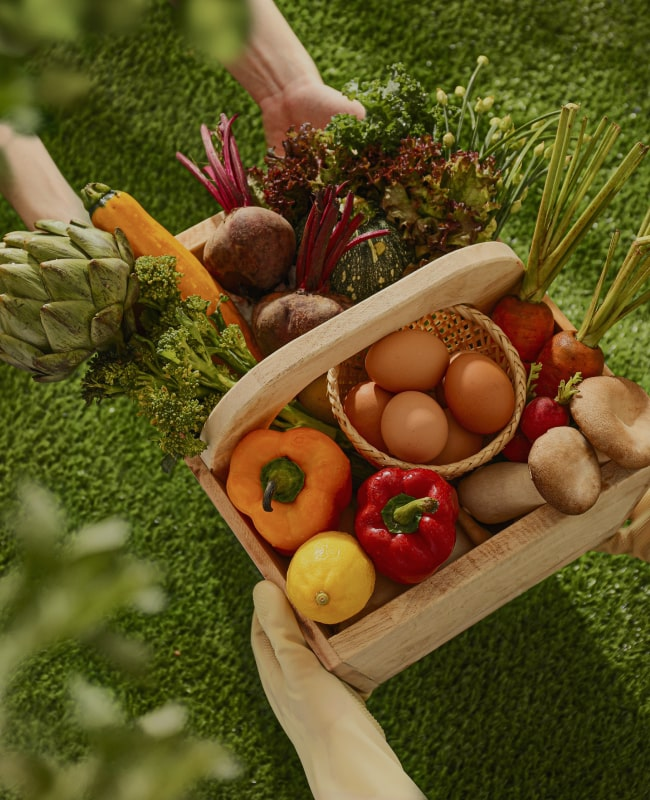
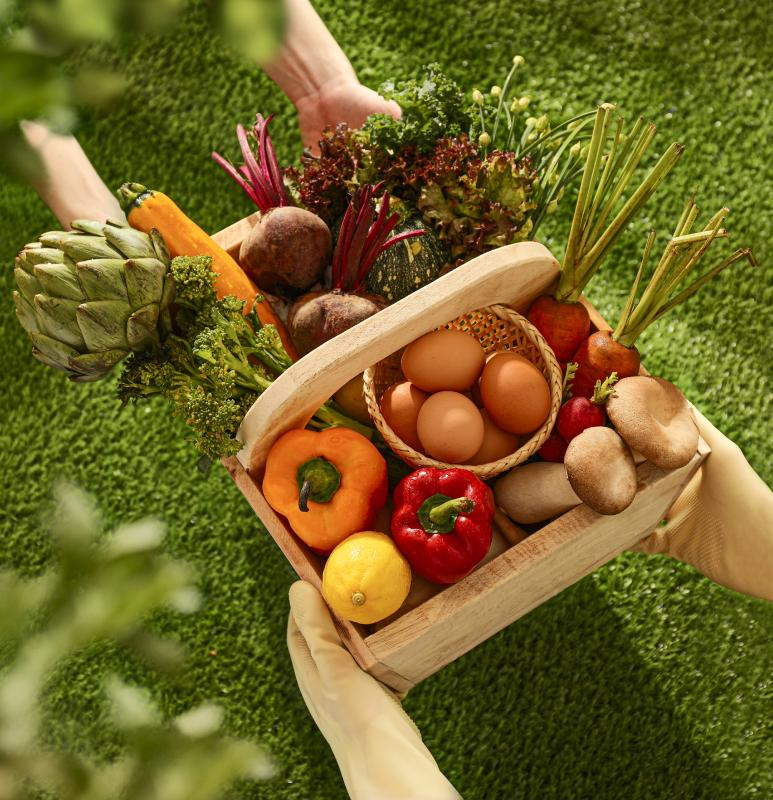
hero picture corrected

diff --git a/src/css/how-it-works.css b/src/css/how-it-works.css
@@ -1,0 +1,166 @@
+.how-it-works {
+  background: linear-gradient(to bottom, #7a3145 50%, #576f35 50%);
+}
+
+.how-it-works-wrap {
+  padding: 0 20px;
+  display: flex;
+  flex-direction: column;
+  align-items: center;
+  justify-content: center;
+  gap: 80px;
+}
+
+.how-it-works-container {
+  display: flex;
+  align-items: center;
+  justify-content: center;
+  padding: 40px 0;
+}
+
+.how-it-works-pict {
+  border-radius: 30px;
+}
+
+.how-it-works-content {
+  padding: 80px 0;
+  display: flex;
+  flex-direction: column;
+  align-items: center;
+  justify-content: center;
+}
+
+.how-it-works-title {
+  text-transform: uppercase;
+  font-size: 28px;
+  font-weight: 600;
+  line-height: 1;
+  letter-spacing: -0.015em;
+  margin-bottom: 20px;
+}
+
+.how-it-works-span {
+  opacity: 30%;
+}
+
+.how-it-works-text {
+  font-size: 14px;
+  font-weight: 500;
+  line-height: 1.2;
+  margin-bottom: 40px;
+}
+
+.how-it-works-list {
+  counter-reset: section;
+}
+
+.how-it-works-item {
+  display: flex;
+  align-items: center;
+  position: relative;
+  padding-left: 100px;
+  padding-right: 24px;
+  margin-bottom: 20px;
+  max-width: 335px;
+  height: 76px;
+  background-color: #fbfbfb;
+  border-radius: 15px;
+  cursor: pointer;
+  transition: transform 0.3s ease-in-out;
+}
+
+.how-it-works-item:last-child {
+  margin-bottom: 0;
+}
+
+.how-it-works-item:nth-child(2) {
+  padding-right: 59px;
+}
+
+.how-it-works-item:before {
+  position: absolute;
+  left: 24px;
+  top: 12px;
+  counter-increment: section;
+  content: counters(section, ".") " ";
+  width: 52px;
+  height: 52px;
+  border-radius: 50%;
+  background-color: #7a3145;
+  outline: 5px solid rgba(122, 49, 69, 0.3);
+  display: flex;
+  justify-content: center;
+  align-items: center;
+  font-size: 20px;
+  font-weight: 600;
+  line-height: 1;
+  letter-spacing: -0.02em;
+}
+
+.how-it-works-subtext {
+  color: rgba(20, 20, 20, 0.6);
+  font-size: 12px;
+  font-weight: 500;
+  line-height: 1.1;
+  letter-spacing: -0.02em;
+}
+
+.how-it-works-span-text {
+  color: #141414;
+  font-weight: 700;
+}
+
+.how-it-works-item:hover {
+  transform: scale(1.1);
+}
+
+@media screen and (min-width: 768px) {
+  .how-it-works-container {
+    padding: 100px 64px;
+  }
+
+  .how-it-works-content {
+    padding: 100px 159px;
+  }
+
+  .how-it-works-title {
+    font-size: 32px;
+    margin-bottom: 25px;
+  }
+
+  .how-it-works-text {
+    font-size: 16px;
+    margin-bottom: 50px;
+  }
+
+  .how-it-works-subtext {
+    font-size: 16px;
+  }
+
+  .how-it-works-item {
+    max-width: 450px;
+  }
+}
+
+@media screen and (min-width: 1280px) {
+  .how-it-works {
+    background: linear-gradient(to right, #7a3145 50%, #576f35 50%);
+  }
+
+  .how-it-works-wrap {
+    flex-direction: row;
+    justify-content: space-between;
+    gap: 0;
+  }
+
+  .how-it-works-container {
+    padding-right: 100px;
+    padding-left: 0;
+  }
+
+  .how-it-works-content {
+    padding-left: 100px;
+    padding-right: 0;
+    max-width: 50%;
+  }
+}

diff --git a/src/css/hero.css b/src/css/hero.css
@@ -10,10 +10,7 @@
 .hero-bg-cont {
   max-width: 375px;
   height: 370px;
-  background-image: linear-gradient(
-      rgba(20, 20, 20, 0.1),
-      rgba(20, 20, 20, 0.1)),
-      url(../img/hero-img/hero1x-mob.jpg);
+  background-image: url(../img/hero-img/hero1x-mob.jpg);
   background-repeat: no-repeat;
   background-size: cover;
   background-position: center bottom;
@@ -23,10 +20,7 @@
 
 @media screen and (min-device-pixel-ratio: 2), (min-resolution: 192dpi), (min-resolution: 2dppx) {
   .hero-bg-cont {
-    background-image: linear-gradient(
-        rgba(20, 20, 20, 0.1),
-        rgba(20, 20, 20, 0.1)),
-        url(../img/hero-img/hero2x-mob.jpg);
+    background-image: url(../img/hero-img/hero2x-mob.jpg);
   }
 }
 
@@ -56,22 +50,12 @@
   .hero-bg-cont{
     max-width: 768px;
     height: 539px;
-    background-image:
-      linear-gradient(
-      rgba(20, 20, 20, 0.1),
-      rgba(20, 20, 20, 0.1)
-      ),
-      url(../img/hero-img/hero1x-tab.jpg);
+    background-image: url(../img/hero-img/hero1x-tab.jpg);
   }
 
   @media screen and (min-device-pixel-ratio: 2), (min-resolution: 192dpi), (min-resolution: 2dppx) {
   .hero-bg-cont {
-    background-image:
-      linear-gradient(
-      rgba(20, 20, 20, 0.1),
-      rgba(20, 20, 20, 0.1)
-        ),
-      url(../img/hero-img/hero2x-tab.jpg);
+    background-image: url(../img/hero-img/hero2x-tab.jpg);
     }
   }
 
@@ -94,19 +78,16 @@
   }
 
   .hero {
-    background-image:
-    linear-gradient(
-    to right,
-    #576F35 0%,
-    #576F35 50%,
-    transparent 50%, transparent 100%),
-    linear-gradient(
-      rgba(20, 20, 20, 0.1),
-      rgba(20, 20, 20, 0.1),
-      transparent 0%,
+    background-image: linear-gradient(
+      to right,
+      #576f35 50%,
       transparent 50%
-    ),
-    url(../img/hero-img/hero2x-desk.jpg);
+      ),
+      linear-gradient(
+        rgba(20, 20, 20, 0.2),
+        rgba(20, 20, 20, 0.2)
+          ),
+      url(../img/hero-img/hero1x-desk.jpg);
     background-repeat: no-repeat;
     background-position: right;
     background-size: contain;
@@ -129,18 +110,15 @@
 
   @media screen and (min-device-pixel-ratio: 2), (min-resolution: 192dpi), (min-resolution: 2dppx) {
     .hero {
-      background-image:
-        linear-gradient(
+      background-image: linear-gradient(
         to right,
-        #576F35 0%,
-        #576F35 50%,
-        transparent 50%, transparent 100%),
-        linear-gradient(
-          rgba(20, 20, 20, 0.1),
-          rgba(20, 20, 20, 0.1),
-          transparent 0%,
-          transparent 50%
+        #576f35 50%,
+        transparent 50%
         ),
+        linear-gradient(
+          rgba(20, 20, 20, 0.2),
+          rgba(20, 20, 20, 0.2)
+            ),
         url(../img/hero-img/hero2x-desk.jpg);
     }
   }

diff --git a/src/partials/how-it-works.html b/src/partials/how-it-works.html
@@ -1,4 +1,40 @@
-<section class="how-it-works">
-  
+<section id="how-it-works" class="how-it-works">
+  <div class="container-no-pad">
+    <h2 class="visually-hidden">How it works</h2>
+    <div class="how-it-works-wrap">
+    <div class="how-it-works-container">
+      <picture>
+        <source
+          srcset="/img/how-it-works/how-it-works1x-desk.jpg 1x, ./img/how-it-works/how-it-works2x-desk.jpg 2x"
+          media="(min-width: 1280px)"
+        >
+        <source
+          srcset="/img/how-it-works/how-it-works1x-tab.jpg 1x, ./img/how-it-works/how-it-works2x-tab.jpg 2x"
+          media="(min-width: 768px)"
+        >
+        <source
+          srcset="/img/how-it-works/how-it-works1x-mob.jpg 1x, ./img/how-it-works/how-it-works2x-mob.jpg 2x"
+          media="(max-width: 767px)"
+        >
+        <img class="how-it-works-pict" src="/img/how-it-works/how-it-works.jpg" alt="Woman cutting apples">
+      </picture>
+    </div>
+    <div class="how-it-works-content">
+      <h3 class="how-it-works-title">To order your <span class="how-it-works-span">vegetable</span> basket, simply follow these <span class="how-it-works-span">easy steps</span></h3>
+      <p class="how-it-works-text">Our baskets are assembled with care and delivered straight to your doorstep, so you can enjoy the taste of fresh fruit without ever leaving your home.</p>
+      <ol class="how-it-works-list">
+        <li class="how-it-works-item">
+          <p class="how-it-works-subtext">Just choose the <span class="how-it-works-span-text">vegetable</span> you want to order by clicking on the checkboxes <span class="how-it-works-span-text">next to it.</span></p>
+        </li>
+        <li class="how-it-works-item">
+          <p class="how-it-works-subtext">Click on the <span class="how-it-works-span-text">basket</span> and fill out the form.</p>
+        </li>
+        <li class="how-it-works-item">
+          <p class="how-it-works-subtext">Sit back and relax! Your <span class="how-it-works-span-text">fresh vegetables</span> basket will be delivered.</p>
+        </li>
+      </ol>
+    </div>
+  </div>
+  </div>
 </section>
 

diff --git a/src/css/reset.css b/src/css/reset.css
@@ -19,7 +19,8 @@ p {
   margin: 0;
 }
 
-ul {
+ul,
+ol {
   margin: 0;
   padding: 0;
   list-style: none;
